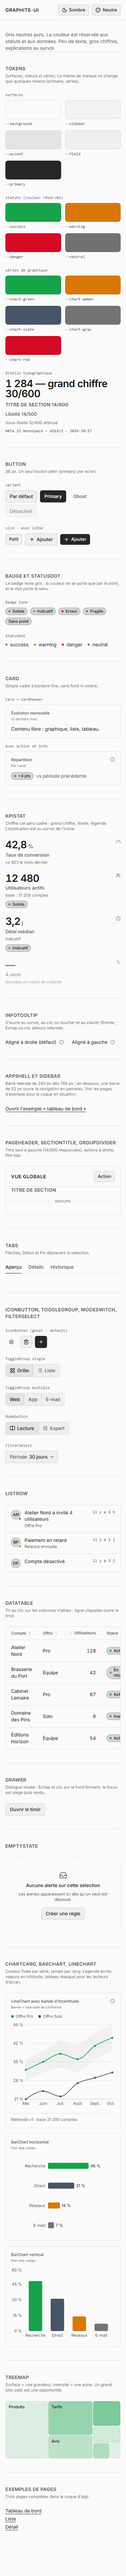
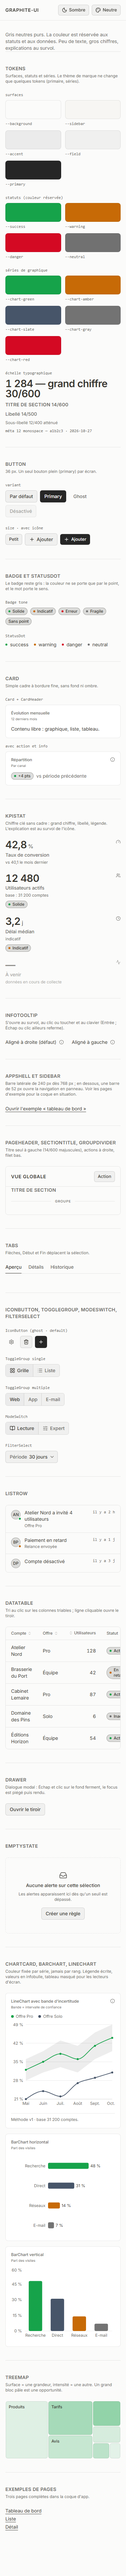
feat(theme): thème clair = palette C (blanc chaud façon Notion) (#4)
* feat(proposition): trois palettes de thème clair (A origine, B Paperclip/shadcn, C Notion) — NE PAS FUSIONNER avant le choix

- tokens/light-palettes.json + page /palettes + captures dans docs/captures/palettes
- Card utilise bg-card (identique à la page en sombre, distinct en clair)
- ambre du thème clair assombri (#c76a06) pour tenir 3:1 sur les cartes
- tests de palette : 4,5:1 texte, 3:1 graphique, gris purs, fonds chroma ≤ 0,01

* feat(theme): thème clair = palette C (blanc chaud façon Notion), propositions A/B et page /palettes supprimées

- themes.light : page #FBFBFA, cartes #FFFFFF, barre latérale #F7F6F3, gris purs pour boutons et menu actif
- tests : fonds chroma ≤ 0,01, carte distincte, gris purs, bande grise ; 4,5:1 texte / 3:1 graphique
- docs (DESIGN.md, THEMING.md) et captures mises à jour

---------

Changed region(s): [[0.176, 0.3118, 0.2053, 0.343], [0.176, 0.1247, 0.2053, 0.1559], [0.0587, 0.3118, 0.088, 0.343]]

diff --git a/src/__tests__/tokens.test.ts b/src/__tests__/tokens.test.ts
@@ -2,6 +2,7 @@ import { execFileSync } from "node:child_process";
 import { readdirSync, readFileSync, statSync } from "node:fs";
 import { join, resolve } from "node:path";
 import { describe, expect, it } from "vitest";
+import { chroma, contrast } from "./color";
 import { violations } from "./rules";
 
 const RACINE = resolve(__dirname, "..", "..");
@@ -38,10 +39,32 @@ describe("tokens de référence (Paperclip, sombre)", () => {
     expect(d.field).toBe("oklab(1 0 0 / 0.045)");
   });
 
-  it("garde le cœur neutre : surfaces et textes à chroma 0", () => {
-    for (const [nom, t] of THEMES.slice(0, 2))
-      for (const k of ["background", "card", "sidebar", "accent", "foreground", "muted", "primary", "border"])
-        expect(t[k], `${nom}/${k}`).toMatch(/^oklch\([\d.]+% 0 0( \/ [\d.]+)?\)$/);
+  it("garde le cœur neutre en sombre : surfaces et textes à chroma 0", () => {
+    const t = tokens.themes.dark;
+    for (const k of ["background", "card", "sidebar", "accent", "foreground", "muted", "primary", "border"])
+      expect(t[k], k).toMatch(/^oklch\([\d.]+% 0 0( \/ [\d.]+)?\)$/);
+  });
+});
+
+describe("thème clair : blanc chaud très subtil", () => {
+  const t = tokens.themes.light;
+
+  it("fonds à chroma ≤ 0,01 et cartes en blanc pur", () => {
+    for (const k of ["background", "sidebar", "card"]) expect(chroma(t[k]), k).toBeLessThanOrEqual(0.01);
+    expect(t.card.toLowerCase()).toBe("#ffffff");
+  });
+
+  it("la carte se distingue de la page", () => {
+    expect(contrast(t.card, t.background)).toBeGreaterThanOrEqual(1.02);
+  });
+
+  it("boutons, menu actif, bouton plein, bordures et bande sont des gris purs (jamais beiges)", () => {
+    for (const k of ["accent", "field", "primary", "border", "input", "chart-band"])
+      expect(t[k], k).toMatch(/^(oklch\([\d.]+%|oklab\([\d.]+) 0 0( \/ [\d.]+)?\)$/);
+  });
+
+  it("la bande d'incertitude est un gris clair translucide", () => {
+    expect(t["chart-band"]).toMatch(/^oklch\(0% 0 0 \/ 0\.\d+\)$/);
   });
 });
 

diff --git a/skills/graphite-ui/tokens/tokens.css b/skills/graphite-ui/tokens/tokens.css
@@ -35,28 +35,28 @@
 
 [data-theme="light"] {
   color-scheme: light;
-  --background: oklch(98.5% 0 0);
-  --card: oklch(98.5% 0 0);
-  --sidebar: oklch(96% 0 0);
-  --accent: oklch(92% 0 0);
-  --foreground: oklch(20.5% 0 0);
-  --muted: oklch(44% 0 0);
-  --faint: oklch(44% 0 0 / 0.92);
-  --faint-60: oklch(44% 0 0 / 0.9);
-  --faint-side: oklch(44% 0 0 / 0.94);
+  --background: #FBFBFA;
+  --card: #FFFFFF;
+  --sidebar: #F7F6F3;
+  --accent: oklch(94% 0 0);
+  --foreground: #37352F;
+  --muted: #6B6A66;
+  --faint: #6B6A66;
+  --faint-60: #6B6A66;
+  --faint-side: #6B6A66;
   --primary: oklch(26.9% 0 0);
   --primary-foreground: oklch(98.5% 0 0);
-  --border: oklch(0% 0 0 / 0.1);
-  --input: oklch(0% 0 0 / 0.15);
+  --border: oklch(0% 0 0 / 0.09);
+  --input: oklch(0% 0 0 / 0.14);
   --field: oklab(0 0 0 / 0.045);
   --success: #16a34a;
-  --warning: #d97706;
+  --warning: #c76a06;
   --neutral: oklch(55% 0 0);
   --danger: oklch(55% 0.22 25.33);
   --chart-green: #16a34a;
-  --chart-amber: #d97706;
+  --chart-amber: #c76a06;
   --chart-slate: #475569;
   --chart-gray: #737373;
   --chart-red: oklch(55% 0.22 25.33);
-  --chart-band: oklch(0% 0 0 / 0.04);
+  --chart-band: oklch(0% 0 0 / 0.07);
 }

diff --git a/src/styles/tokens.css b/src/styles/tokens.css
@@ -35,28 +35,28 @@
 
 [data-theme="light"] {
   color-scheme: light;
-  --background: oklch(98.5% 0 0);
-  --card: oklch(98.5% 0 0);
-  --sidebar: oklch(96% 0 0);
-  --accent: oklch(92% 0 0);
-  --foreground: oklch(20.5% 0 0);
-  --muted: oklch(44% 0 0);
-  --faint: oklch(44% 0 0 / 0.92);
-  --faint-60: oklch(44% 0 0 / 0.9);
-  --faint-side: oklch(44% 0 0 / 0.94);
+  --background: #FBFBFA;
+  --card: #FFFFFF;
+  --sidebar: #F7F6F3;
+  --accent: oklch(94% 0 0);
+  --foreground: #37352F;
+  --muted: #6B6A66;
+  --faint: #6B6A66;
+  --faint-60: #6B6A66;
+  --faint-side: #6B6A66;
   --primary: oklch(26.9% 0 0);
   --primary-foreground: oklch(98.5% 0 0);
-  --border: oklch(0% 0 0 / 0.1);
-  --input: oklch(0% 0 0 / 0.15);
+  --border: oklch(0% 0 0 / 0.09);
+  --input: oklch(0% 0 0 / 0.14);
   --field: oklab(0 0 0 / 0.045);
   --success: #16a34a;
-  --warning: #d97706;
+  --warning: #c76a06;
   --neutral: oklch(55% 0 0);
   --danger: oklch(55% 0.22 25.33);
   --chart-green: #16a34a;
-  --chart-amber: #d97706;
+  --chart-amber: #c76a06;
   --chart-slate: #475569;
   --chart-gray: #737373;
   --chart-red: oklch(55% 0.22 25.33);
-  --chart-band: oklch(0% 0 0 / 0.04);
+  --chart-band: oklch(0% 0 0 / 0.07);
 }

diff --git a/src/__tests__/color.ts b/src/__tests__/color.ts
@@ -76,3 +76,15 @@ export function withAlpha(color: string, alpha: number): string {
   const sansAlpha = v.replace(/\s*\/[^)]*\)$/, ")");
   return sansAlpha.replace(/\)$/, ` / ${alpha})`);
 }
+
+/** Chroma OKLCH d'une couleur (0 = gris pur) : sert à vérifier « chroma ≤ 0,01 » sur les fonds. */
+export function chroma(color: string): number {
+  const { r, g, b } = parseColor(color);
+  const [lr, lg, lb] = [r, g, b].map(toLinear);
+  const l = Math.cbrt(0.4122214708 * lr + 0.5363325363 * lg + 0.0514459929 * lb);
+  const m = Math.cbrt(0.2119034982 * lr + 0.6806995451 * lg + 0.1073969566 * lb);
+  const s = Math.cbrt(0.0883024619 * lr + 0.2817188376 * lg + 0.6299787005 * lb);
+  const a = 1.9779984951 * l - 2.428592205 * m + 0.4505937099 * s;
+  const bb = 0.0259040371 * l + 0.7827717662 * m - 0.808675766 * s;
+  return Math.hypot(a, bb);
+}

diff --git a/src/components/card.tsx b/src/components/card.tsx
@@ -1,10 +1,10 @@
 import * as React from "react";
 import { cn } from "../lib/cn";
 
-/** Carte : simple cadre (bordure blanc 10 %), fond transparent, arrondi 8 px, marge 16 px. */
+/** Carte : cadre fin (bordure), fond `card` (identique à la page en sombre, distinct en clair), arrondi 8 px, marge 16 px. */
 export const Card = React.forwardRef<HTMLElement, React.HTMLAttributes<HTMLElement>>(
   ({ className, ...props }, ref) => (
-    <section ref={ref} className={cn("min-w-0 rounded-lg border bg-transparent p-4", className)} {...props} />
+    <section ref={ref} className={cn("min-w-0 rounded-lg border bg-card p-4", className)} {...props} />
   ),
 );
 Card.displayName = "Card";

diff --git a/src/__tests__/rules.ts b/src/__tests__/rules.ts
@@ -1,4 +1,4 @@
-// Règles de contraste du design system, appliquées à un jeu de tokens résolu (thème + marque ou palette).
+// Règles de contraste du design system, appliquées à un jeu de tokens résolu (thème + marque).
 //  - 4,5:1 pour TOUT texte, jetons de marque compris ;
 //  - 3:1 pour les éléments graphiques non textuels (séries de graphique, points de statut, fond du bouton plein).
 // Les bordures de cartes et de champs sont décoratives : le libellé identifie le contrôle (non couvertes).

diff --git a/docs/THEMING.md b/docs/THEMING.md
@@ -47,19 +47,20 @@ Créer un fichier CSS dans l'app, importé après `graphite-ui/styles.css` :
 
 Vérifier le contraste de `--primary-foreground` sur `--primary` (≥ 4,5:1, par exemple avec la fonction `contrast` de `src/__tests__/color.ts`).
 
-## Dériver un thème clair
+## Le thème clair
 
-Le thème clair est dérivé du sombre, rôle par rôle :
+Le thème clair (blanc chaud très subtil, façon Notion) reprend les mêmes rôles que le sombre :
 
-| Rôle                      | Règle de dérivation                                                                                             |
-| ------------------------- | --------------------------------------------------------------------------------------------------------------- |
-| Fond, carte               | luminance 98,5 % (le texte sombre y tient largement)                                                            |
-| Barre latérale, accent    | 96 % et 92 % (même écart relatif qu'en sombre)                                                                  |
-| Texte                     | 20,5 % (l'ancien fond)                                                                                          |
-| Gris secondaire (`muted`) | **44 %**, pas 29,2 % (l'inverse de 70,8 %) : le miroir exact ne tient pas 4,5:1 sur fond clair une fois mélangé |
-| Gris atténués             | `muted` à 90–94 % d'opacité                                                                                     |
-| Bordures, champs          | noir 10 % / 15 % / 4,5 % (l'inverse du blanc)                                                                   |
-| Statuts, séries           | teintes assombries pour rester lisibles sur clair                                                               |
+| Rôle                              | Valeur                                     | Règle                                                                   |
+| --------------------------------- | ------------------------------------------ | ----------------------------------------------------------------------- |
+| Page (`background`)               | `#FBFBFA`                                  | chroma ≤ 0,01                                                           |
+| Cartes (`card`)                   | `#FFFFFF`                                  | blanc pur : la carte se distingue de la page                            |
+| Barre latérale                    | `#F7F6F3`                                  | chroma ≤ 0,01                                                           |
+| Menu actif, boutons, bouton plein | gris purs (chroma 0)                       | jamais beiges                                                           |
+| Texte / secondaire                | `#37352F` / `#6B6A66`                      | ≥ 4,5:1 sur page, cartes, barre latérale, menu actif, boutons et badges |
+| Bordures, champs                  | noir 9 % / 14 % / 4,5 %                    | décoratifs : le libellé identifie le contrôle                           |
+| Bande d'incertitude               | noir 7 %                                   | gris clair translucide                                                  |
+| Statuts, séries                   | teintes assombries (`#16a34a`, `#c76a06`…) | ≥ 3:1 sur page et cartes                                                |
 
 Toujours **mesurer** : `npm test` calcule le contraste réel (mélange alpha en sRGB, comme un navigateur).
 

diff --git a/DESIGN.md b/DESIGN.md
@@ -46,7 +46,7 @@ Ce document dit **comment** utiliser le design system. Les valeurs vivent dans `
 
 Aucun texte sous 10 px (testé).
 
-**Thème clair** (`data-theme="light"`) : mêmes rôles, luminances inversées, chroma 0. Fond `98,5 %`, texte `20,5 %`, gris secondaire relevé à `44 %` pour tenir 4,5:1 sur fond clair. Statuts et séries assombris (`#16a34a`, `#d97706`…) pour rester lisibles. Le test de contraste couvre les 4 thèmes.
+**Thème clair** (`data-theme="light"`) : blanc chaud très subtil, façon Notion. Page `#FBFBFA`, **cartes en blanc pur** (distinctes de la page), barre latérale `#F7F6F3` ; les fonds ont une chroma ≤ 0,01. Texte `#37352F`, gris secondaire `#6B6A66`. Boutons, menu actif et bouton plein sont des **gris purs**, jamais beiges. Statuts et séries assombris (`#16a34a`, `#c76a06`…) pour tenir 3:1 sur la page et sur les cartes ; le texte tient 4,5:1. Le test de contraste couvre les 4 thèmes.
 
 **Thème de marque** : voir [docs/THEMING.md](docs/THEMING.md). Une marque ne change que quelques tokens (primaire, séries) ; elle ne touche jamais aux surfaces.
 
